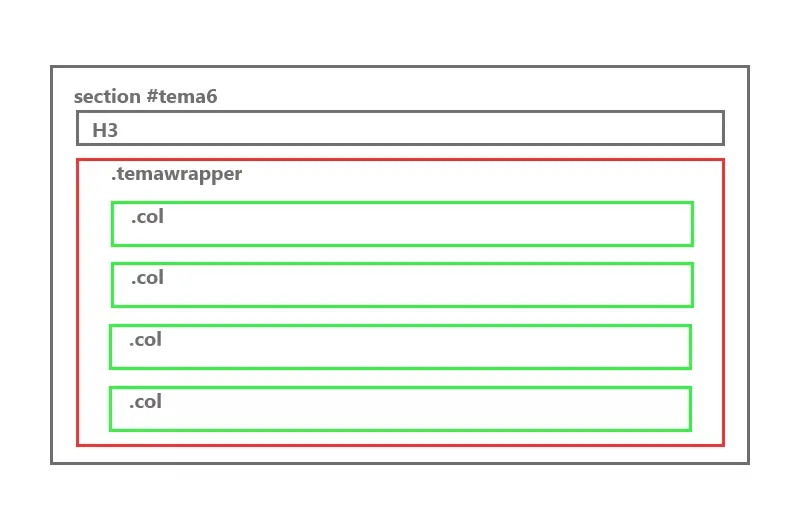
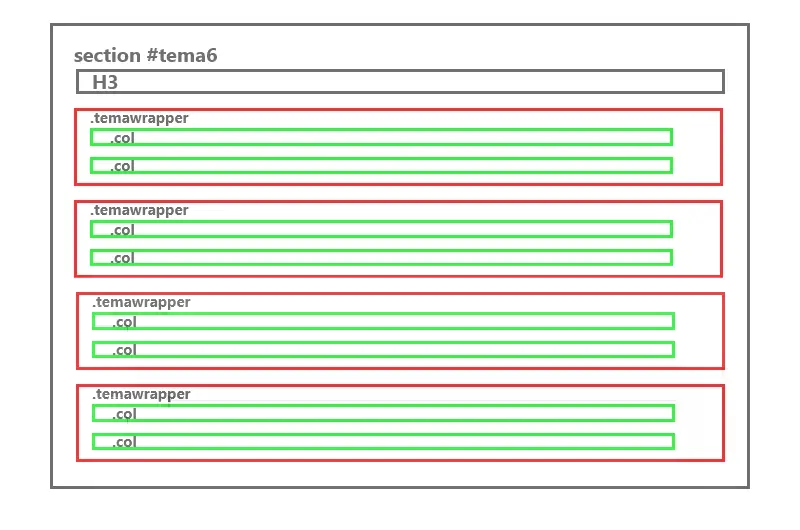
til toppen knap

Changed region(s): [[0.0625, 0.0302, 0.9375, 0.9358]]

diff --git a/portfolio.html b/portfolio.html
@@ -74,6 +74,7 @@
         </div>
       </section>
       <section id="tema2">
+        <a href="portfolio.html"><h2>Til toppen</h2></a>
         <h3>Tema 2 Grundlæggende web</h3>
         <div class="temawrapper">
           <div class="col">
@@ -145,7 +146,8 @@
         </div>
       </section>
       <section id="tema3">
-        <h3>Tema 3 Grundlæggende UX</h3>
+         <a href="portfolio.html"><h2>Til toppen</h2></a>
+         <h3>Tema 3 Grundlæggende UX</h3>
         <div class="temawrapper">
           <div class="col">
             <h4>Overordnede læringsmål</h4>
@@ -242,6 +244,7 @@
         </div>
       </section>
       <section id="tema4">
+        <a href="portfolio.html"><h2>Til toppen</h2></a>
         <h3>Tema 4 Grundlæggende animation</h3>
         <div class="temawrapper">
           <div class="col">
@@ -344,6 +347,7 @@
         </div>
       </section>
       <section id="tema5">
+        <a href="portfolio.html"><h2>Til toppen</h2></a>
         <h3>Grundlæggende indhold</h3>
         <div class="temawrapper">
           <div class="pilot1">
@@ -443,6 +447,7 @@
         </div>
       </section>
       <section id="tema6">
+        <a href="portfolio.html"><h2>Til toppen</h2></a>
         <h3>Screendumps fra min portfolio-proces</h3>
 
         <h4>screenshots fra illustrator af min forside</h4>
@@ -492,7 +497,7 @@
           </div>
         </div>
 
-        <h4>Wireframes</h4>
+        <h4>Wireframes for portfolio</h4>
         <div class="temawrapper">
           <div class="col">
             <figure>
@@ -531,6 +536,35 @@
                 Wireframe for grundlæggende portfolio-tema6
               </figcaption>
             </figure>
+          </div>
+        </div>
+        <h4>Layoutdiagrammer for portfolio</h4>
+        <div class="temawrapper">
+          <div class="col">
+            <figure>
+              <img src="webp/layout1.webp" alt="layoutdiagram for 1. sektion" />
+
+              <figcaption>Layoutdiagram for 1.sektion med links</figcaption>
+            </figure>
+
+            <figure>
+              <img src="webp/layout2.webp" alt="layoutdiagram tema 2,3,4" />
+
+              <figcaption>Layoutdiagram for temaerne 2,3 og 4</figcaption>
+            </figure>
+          </div>
+            <div class="col">
+              <figure>
+                <img src="webp/layout3.webp" alt="layoutdiagram tema 5" />
+
+                <figcaption>Layoutdiagram for tema 5</figcaption>
+              </figure>
+              <figure>
+                <img src="webp/layout4.webp" alt="layoutdiagram tema 6" />
+
+                <figcaption>Layoutdiagram for tema 6</figcaption>
+              </figure>
+            </div>
           </div>
         </div>
         <div class="col"></div>
